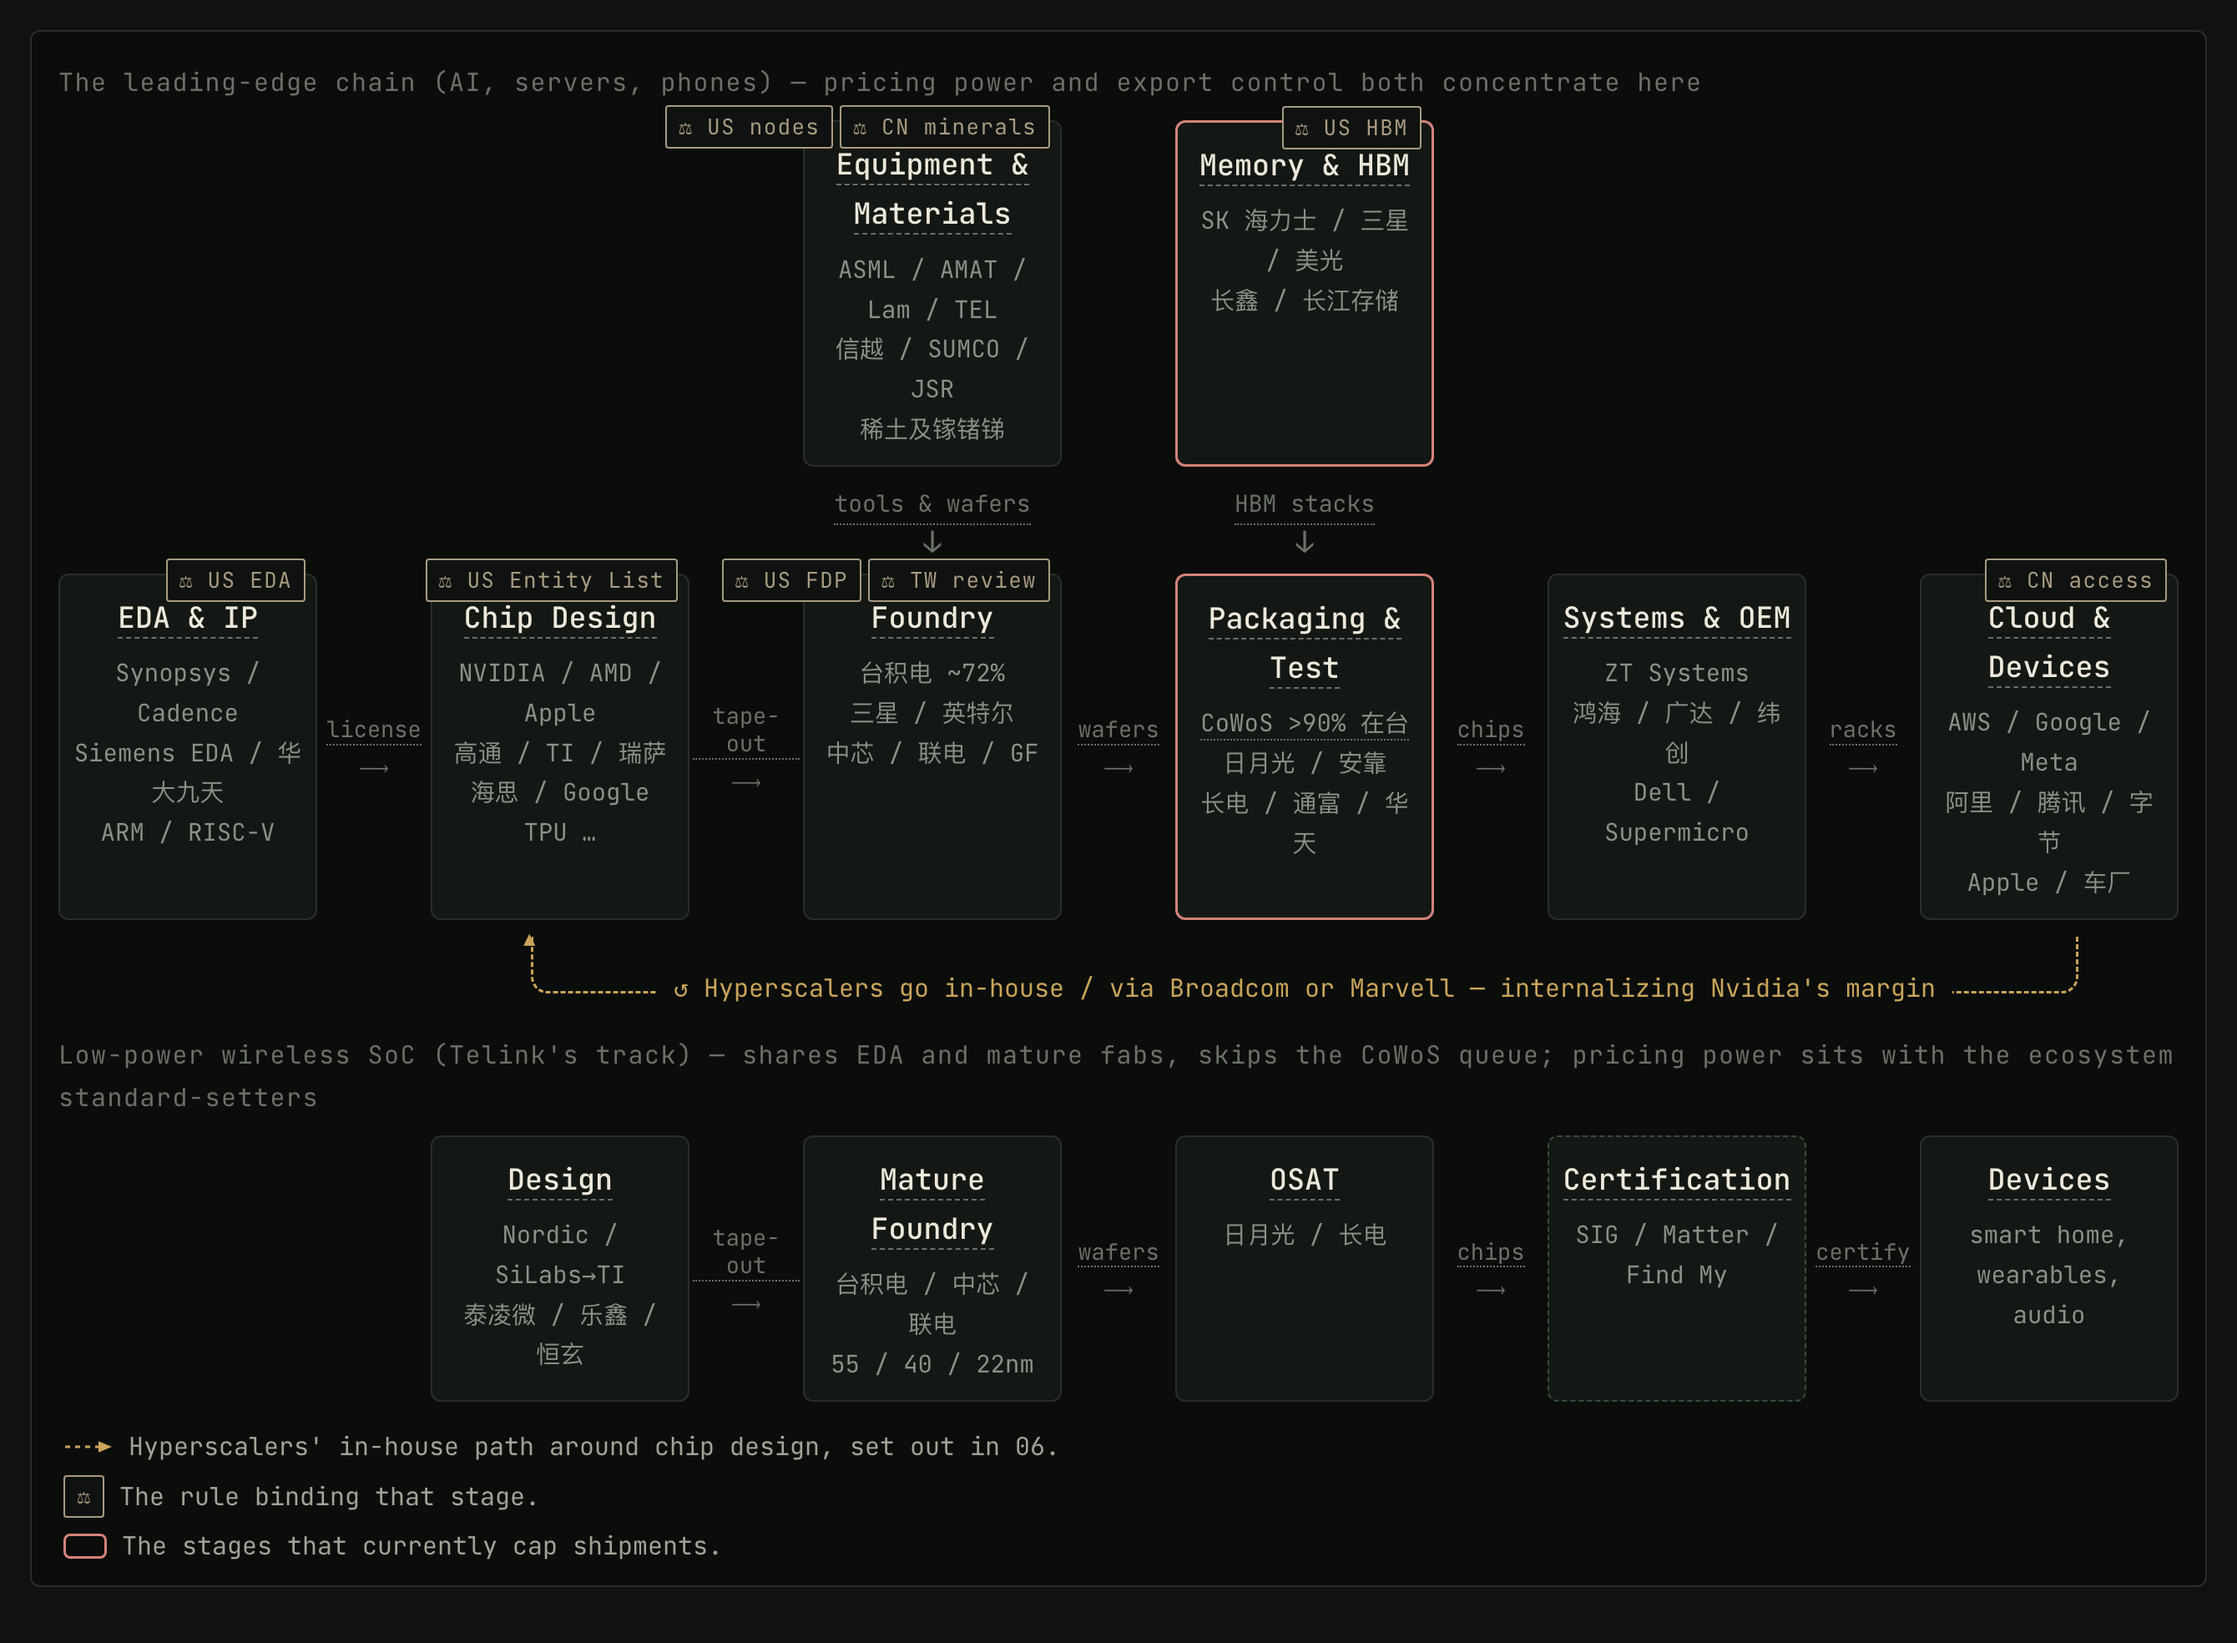
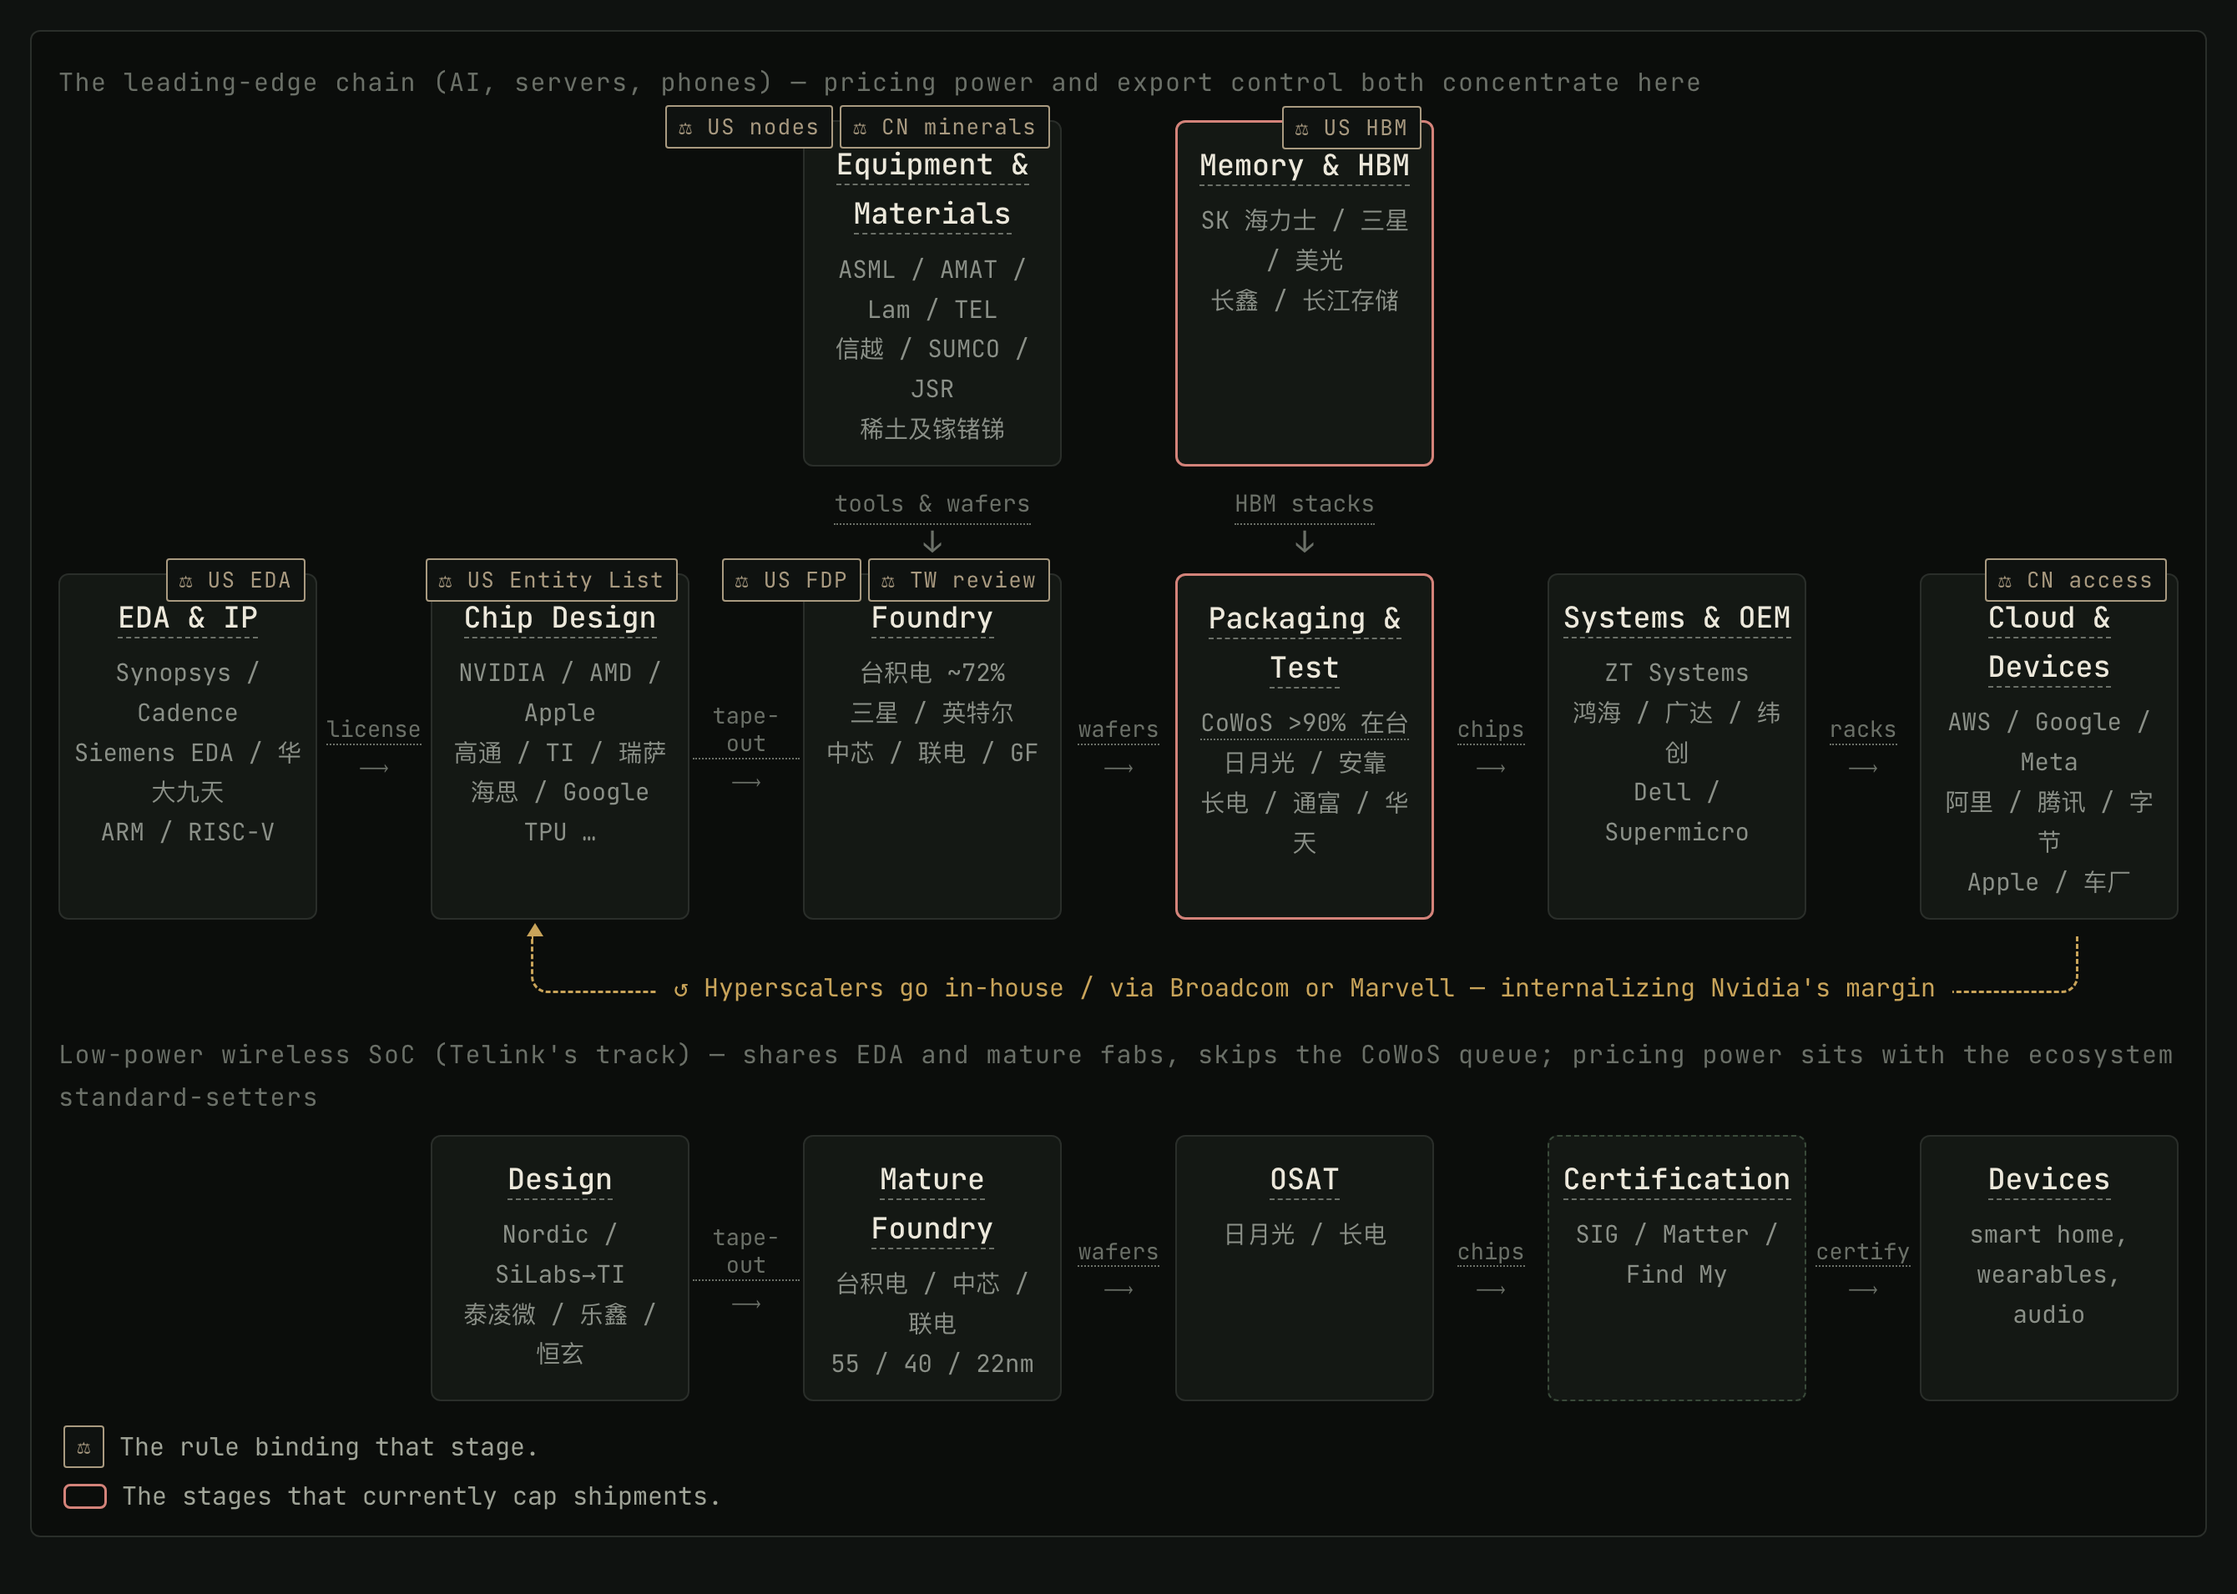
semis: drop the loop from the legend, draw the arrowhead instead of typesetting it
The loop already carries its own label in the diagram, so the legend
line only repeated it. Two entries left, both for marks that say nothing
on their own.

The arrowhead was a ▲ glyph at left:-6px, a value hand-fitted to a 10px
font — raising the type to 12px moved it off the dashed line. It becomes
a CSS triangle centred on the border, so it cannot drift the next time
type changes.

diff --git a/quartz/static/semis/value-chain-map.html b/quartz/static/semis/value-chain-map.html
@@ -268,8 +268,9 @@ h1.article-title{font-size:30px}
   display:flex;align-items:flex-end;justify-content:center}
 .fbrk>.tg-tip{position:relative;top:11px;background:var(--color-surface-dark);
   padding:0 10px;font-size:15px;color:var(--color-accent-amber);border-bottom:none;cursor:help}
-.fbrk::before{content:"▲";position:absolute;left:-6px;top:-9px;font-size:12px;
-  color:var(--color-accent-amber)}
+.fbrk::before{content:"";position:absolute;left:-4.25px;top:-8px;width:0;height:0;
+  border-left:5px solid transparent;border-right:5px solid transparent;
+  border-bottom:8px solid var(--color-accent-amber)}
 .fig .tg-tip .tg-tip-box{bottom:auto;top:calc(100% + 10px);left:50%;
   transform:translate(-50%,-4px);max-width:min(420px,84vw)}
 .fig .tg-tip:hover .tg-tip-box,.fig .tg-tip:focus-within .tg-tip-box{
@@ -287,7 +288,6 @@ h1.article-title{font-size:30px}
 .fig figcaption .capline{display:flex;align-items:center;gap:.55rem}
 .fig figcaption .capline+.capline{margin-top:.3rem}
 .fig figcaption .sw{flex:0 0 auto;width:26px;height:11px;box-sizing:border-box}
-.fig figcaption .sw-loop{width:30px;height:10px;overflow:visible}
 .fig figcaption .sw-hot{border:1.5px solid var(--hot);border-radius:4px;height:15px}
 .fig figcaption .fpill{cursor:default}
 #mapwrap:has(#r-us:checked) .fig .sr:not(.sr-us),
@@ -369,7 +369,7 @@ h1.article-title{font-size:30px}
 <div class="fcon" style="grid-row:7;grid-column:8"><span class="tg-tip " tabindex="0"><span class="tg-lang zh">芯片</span><span class="tg-lang en">chips</span><span class="tg-tip-box"><span class="tg-lang zh">封好、测完、挑掉坏品之后的成品芯片。</span><span class="tg-lang en">Finished chips: packaged, tested, bad parts culled.</span></span></span><span class="ar">⟶</span></div>
 <div class="fbox dashed" style="grid-row:7;grid-column:9"><span class="ft"><span class="tg-tip " tabindex="0"><span class="tg-lang zh">认证与生态</span><span class="tg-lang en">Certification</span><span class="tg-tip-box"><span class="tg-lang zh"><b>认证与生态</b>。芯片厂控制不了的一道门：Bluetooth SIG、Matter、Find My、各国无线电核准决定「什么算能用的设备」。<b>这道门是这条赛道定价权不在芯片厂手上的原因。</b></span><span class="tg-lang en"><b>Certification & ecosystems</b> — a gate the chip vendor does not control: Bluetooth SIG, Matter, Find My and radio approvals decide what counts as a working device. <b>This gate is why pricing power in low-power wireless does not sit with chip makers.</b></span></span></span></span><span class="fp"><span class="sr sr-gl">SIG / Matter / Find My</span></span></div>
 <div class="fcon" style="grid-row:7;grid-column:10"><span class="tg-tip " tabindex="0"><span class="tg-lang zh">进生态</span><span class="tg-lang en">certify</span><span class="tg-tip-box"><span class="tg-lang zh">过了认证才能进 Apple / Google / Amazon 的生态。进不去，芯片再好也卖不动。</span><span class="tg-lang en">Certification is the ticket into the Apple / Google / Amazon ecosystems. Without it, a better chip still does not sell.</span></span></span><span class="ar">⟶</span></div>
-<div class="fbox" style="grid-row:7;grid-column:11"><span class="ft"><span class="tg-tip tipR " tabindex="0"><span class="tg-lang zh">终端</span><span class="tg-lang en">Devices</span><span class="tg-tip-box"><span class="tg-lang zh"><b>终端</b>。智能家居、穿戴、音频。一颗芯片几毛到几美元，一辆车、一间屋子里有几十上百颗。</span><span class="tg-lang en"><b>End devices</b> — smart home, wearables, audio. Cents to dollars per chip; dozens to hundreds per car or household.</span></span></span></span><span class="fp"><span class="tg-lang zh">智能家居、穿戴、音频</span><span class="tg-lang en">smart home, wearables, audio</span></span></div></div><figcaption><span class="capline"><svg class="sw sw-loop" viewBox="0 0 30 10" aria-hidden="true"><path d="M1 5H21" stroke="var(--color-accent-amber)" stroke-width="1.5" stroke-dasharray="3 3" fill="none"/><path d="M21 1.6 29 5 21 8.4Z" fill="var(--color-accent-amber)"/></svg><span class="tg-lang zh">云厂商绕过芯片设计的自研回路，详见 06。</span><span class="tg-lang en">Hyperscalers' in-house path around chip design, set out in 06.</span></span><span class="capline"><span class="fpill">⚖</span><span class="tg-lang zh">约束该环节的具体规则。</span><span class="tg-lang en">The rule binding that stage.</span></span><span class="capline"><i class="sw sw-hot"></i><span class="tg-lang zh">当前真正限制出货的环节。</span><span class="tg-lang en">The stages that currently cap shipments.</span></span></figcaption></figure>
+<div class="fbox" style="grid-row:7;grid-column:11"><span class="ft"><span class="tg-tip tipR " tabindex="0"><span class="tg-lang zh">终端</span><span class="tg-lang en">Devices</span><span class="tg-tip-box"><span class="tg-lang zh"><b>终端</b>。智能家居、穿戴、音频。一颗芯片几毛到几美元，一辆车、一间屋子里有几十上百颗。</span><span class="tg-lang en"><b>End devices</b> — smart home, wearables, audio. Cents to dollars per chip; dozens to hundreds per car or household.</span></span></span></span><span class="fp"><span class="tg-lang zh">智能家居、穿戴、音频</span><span class="tg-lang en">smart home, wearables, audio</span></span></div></div><figcaption><span class="capline"><span class="fpill">⚖</span><span class="tg-lang zh">约束该环节的具体规则。</span><span class="tg-lang en">The rule binding that stage.</span></span><span class="capline"><i class="sw sw-hot"></i><span class="tg-lang zh">当前真正限制出货的环节。</span><span class="tg-lang en">The stages that currently cap shipments.</span></span></figcaption></figure>
 <p class="govhead"><span class="tg-lang zh">三套管辖权——悬停看规则细节</span><span class="tg-lang en">Three jurisdictions — hover for the rules</span></p>
 <div class="govwrap"><div class="govcard g-us tg-tip" tabindex="0"><b>美国管辖 / US jurisdiction</b><em><span class="tg-lang zh">EDA / 设备 / 先进逻辑 / HBM</span><span class="tg-lang en">EDA / tools / leading-edge logic / HBM</span></em><span class="tg-tip-box"><span class="tg-lang zh"><b>FDP 规则 + 实体清单 + BIS 许可</b>。只要一件外国制造的产品是用美国技术「直接生产」的，美国就主张管辖权——不论它在哪造。这才是台积电受美国法律约束的原因。2022 年 10 月 7 日的规则设定了 16/14nm 逻辑、18nm DRAM、128 层 NAND 的门槛；2024 年 12 月又把 FDP 扩展到设备本身。</span><span class="tg-lang en"><b>FDP rule + Entity List + BIS licensing.</b> If a foreign-made item is the direct product of US technology, Washington claims jurisdiction — wherever it was made. That, not its customer list, is why TSMC is bound by US law. The 7 Oct 2022 rule set thresholds at 16/14nm logic, 18nm DRAM, 128-layer NAND; Dec 2024 extended FDP to equipment itself.</span></span></div><div class="govcard g-cn tg-tip" tabindex="0"><b>中国管辖 / China jurisdiction</b><em><span class="tg-lang zh">稀土 / 镓锗锑 / 最终用途</span><span class="tg-lang en">rare earths / Ga-Ge-Sb / end-use</span></em><span class="tg-tip-box"><span class="tg-lang zh"><b>0.1% 微量规则 + 两用物项管制</b>。2025 年 10 月 9 日商务部第 61/62 号公告：外国制造的商品只要含 0.1% 以上中国原产稀土，出口就需中国许可。<b>结构上与美国 FDP 规则同构。</b>釜山会晤后暂停至 2026 年 11 月 10 日。</span><span class="tg-lang en"><b>The 0.1% de minimis rule + dual-use controls.</b> MOFCOM Notices 61/62 of 9 Oct 2025: any foreign-made good with ≥0.1% Chinese-origin rare-earth content needs a Chinese export licence. <b>Structurally isomorphic to the US FDP rule.</b> Suspended after Busan until 10 Nov 2026.</span></span></div><div class="govcard g-tw tg-tip" tabindex="0"><b>台湾管辖 / Taiwan jurisdiction</b><em><span class="tg-lang zh">代工出海 / 制程外移</span><span class="tg-lang en">overseas fabs / node migration</span></em><span class="tg-tip-box"><span class="tg-lang zh"><b>N-1 原则 + 产创条例第 22 条</b>。海外制程至少落后本土一代。<b>从来不是成文禁令，而是通过投资审查行使的裁量性规范</b>，2025 年 1 月 11 日被经济部长公开松绑，此后持续放宽。</span><span class="tg-lang en"><b>The N-1 rule + Article 22 review.</b> Overseas nodes must trail home by a generation. <b>Never a codified ban — a discretionary norm applied through investment review</b>, publicly relaxed by the economics minister on 11 Jan 2025 and loosened since.</span></span></div></div>
 <div class="filterbar"><span class="ctrl-lab"><span class="tg-lang zh">地区筛选</span><span class="tg-lang en">Region filter</span></span><div class="legend"><label class="b-all" for="r-all"><span class="tg-lang zh">全部</span><span class="tg-lang en">All</span></label><label class="b-us" for="r-us"><span class="tg-lang zh">美国</span><span class="tg-lang en">US</span></label><label class="b-tw" for="r-tw"><span class="tg-lang zh">台湾</span><span class="tg-lang en">Taiwan</span></label><label class="b-cn" for="r-cn"><span class="tg-lang zh">中国大陆</span><span class="tg-lang en">China</span></label><label class="b-kr" for="r-kr"><span class="tg-lang zh">韩国</span><span class="tg-lang en">Korea</span></label><label class="b-jp" for="r-jp"><span class="tg-lang zh">日本</span><span class="tg-lang en">Japan</span></label><label class="b-eu" for="r-eu"><span class="tg-lang zh">欧洲</span><span class="tg-lang en">Europe</span></label></div></div>
